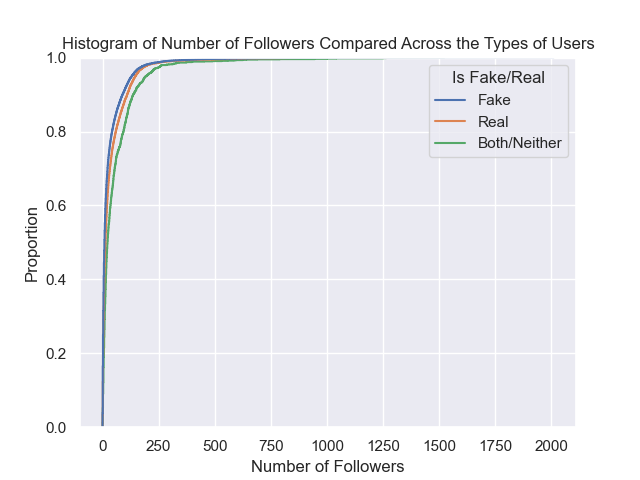
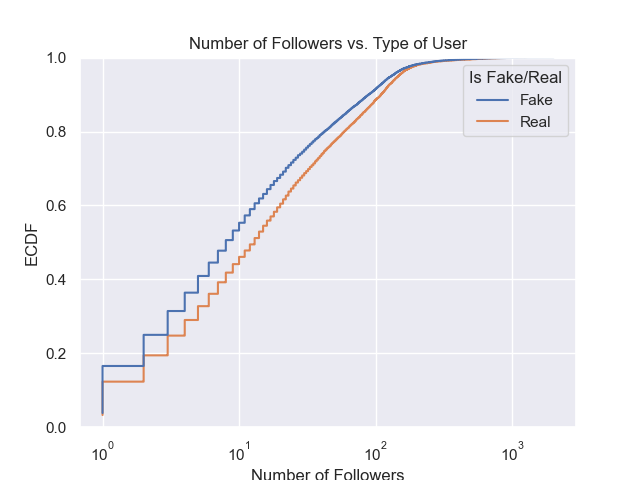
Cleaned up ECDFs

diff --git a/visualization/ecdfs/create_ecdf.py b/visualization/ecdfs/create_ecdf.py
@@ -32,7 +32,7 @@ def create_single_ecdf(points: list[int], data_label: str, title: str, file_name
     plt.savefig(get_file_to_export_path(file_name, "ecdfs"))
 
 
-def create_comparitive_ecdf(points_to_plot: list[int], labels: list[str], column_labels: list[str], to_compare: str, to_plot: str, title: str, file_name: str):
+def create_comparitive_ecdf(points_to_plot: list[int], labels: list[str], column_labels: list[str], to_compare: str, to_plot: str, title: str, file_name: str, log_scale=True):
     """ Provided with a list of datapoints, `points_to_plot`, and labels for each datapoint, 
         `labels`, this function will create an ECDF plot comparing datapoints for each categorical 
         label.
@@ -54,11 +54,21 @@ def create_comparitive_ecdf(points_to_plot: list[int], labels: list[str], column
 
     data = pd.DataFrame(cleaned_data, columns=column_labels)
 
-    sns.ecdfplot(
-        data=data,
-        x=to_plot,
-        hue=to_compare,
-    ).set(title=title)
+    if log_scale:
+        sns.ecdfplot(
+            data=data,
+            x=to_plot,
+            hue=to_compare,
+            log_scale=True,
+            hue_order=["Fake", "Real"],
+        ).set(title=title, ylabel="ECDF")
+    else:
+        sns.ecdfplot(
+            data=data,
+            x=to_plot,
+            hue=to_compare,
+            hue_order=["Fake", "Real"],
+        ).set(title=title, ylabel="ECDF")
 
     plt.savefig(get_file_to_export_path(file_name, "ecdfs"))
 
@@ -68,7 +78,7 @@ def main():
 
     create_comparitive_ecdf([1, 1, 2, 3, 2], ['fake', 'fake', 'fake', 'real', 'real'], [
                             'num_authors', 'is_fake_real'], 'is_fake_real', 'num_authors', "Hello",
-                            'hello.png')
+                            'hello.png', log_scale=True)
 
 
 if __name__ == '__main__':

diff --git a/visualization/ecdfs/p_num_authors_vs_type_of_article/generate_stats/get_num_authors_lists.py b/visualization/ecdfs/p_num_authors_vs_type_of_article/generate_stats/get_num_authors_lists.py
@@ -6,7 +6,7 @@
 """
 
 from visualization.utils import is_article_fake, get_all_article_ids
-from visualization.get_json_dict import database
+from visualization.get_json_dict import DATABASE
 
 
 def get_num_authors_lists():
@@ -17,23 +17,21 @@ def get_num_authors_lists():
                     for all articles, the second list contains the number of authors for fake 
                     articles and the third list contains the number of authors for real articles.
     """
-    all_articles = []
     fake_articles = []
     real_articles = []
 
-    for uid in get_all_article_ids(database):
+    for uid in get_all_article_ids(DATABASE):
         if is_article_fake(uid):
-            article_index = database["articles"]["fake-articles"]["ids"].index(
+            article_index = DATABASE["articles"]["fake-articles"]["ids"].index(
                 uid)
-            authors = len(database["articles"]
+            authors = len(DATABASE["articles"]
                           ["fake-articles"]["authors"][article_index])
             fake_articles.append(authors)
         else:
-            article_index = database["articles"]["real-articles"]["ids"].index(
+            article_index = DATABASE["articles"]["real-articles"]["ids"].index(
                 uid)
-            authors = len(database["articles"]
+            authors = len(DATABASE["articles"]
                           ["real-articles"]["authors"][article_index])
             real_articles.append(authors)
-        all_articles.append(authors)
 
-    return all_articles, fake_articles, real_articles
+    return fake_articles, real_articles

diff --git a/visualization/ecdfs/p_length_vs_type_of_article/generate_stats/get_length_articles_lists.py b/visualization/ecdfs/p_length_vs_type_of_article/generate_stats/get_length_articles_lists.py
@@ -4,11 +4,11 @@
 
 """
 
-from visualization.get_json_dict import database
+from visualization.get_json_dict import DATABASE
 
 
 def get_length_articles_lists():
-    """ Get the lengths of the articles in the database.
+    """ Get the lengths of the articles in the DATABASE.
 
     Returns:
         tuple: A tuple containing three lists. The first list contains the lengths of all articles,
@@ -20,13 +20,13 @@ def get_length_articles_lists():
     lengths_of_fakes = []
     lengths_of_reals = []
 
-    for body, title in zip(database["articles"]["fake-articles"]["bodies"],
-                           database["articles"]["fake-articles"]["titles"]):
+    for body, title in zip(DATABASE["articles"]["fake-articles"]["bodies"],
+                           DATABASE["articles"]["fake-articles"]["titles"]):
         lengths_of_fakes.append(len(body) + len(title))
         lengths_of_articles.append(len(body) + len(title))
-    for body, title in zip(database["articles"]["real-articles"]["bodies"],
-                           database["articles"]["real-articles"]["titles"]):
+    for body, title in zip(DATABASE["articles"]["real-articles"]["bodies"],
+                           DATABASE["articles"]["real-articles"]["titles"]):
         lengths_of_reals.append(len(body) + len(title))
         lengths_of_articles.append(len(body) + len(title))
 
-    return lengths_of_articles, lengths_of_fakes, lengths_of_reals
+    return lengths_of_fakes, lengths_of_reals

diff --git a/visualization/ecdfs/p_shares_vs_type_of_article/generate_stats/get_shares_lists.py b/visualization/ecdfs/p_shares_vs_type_of_article/generate_stats/get_shares_lists.py
@@ -6,11 +6,11 @@
 """
 
 from visualization.utils import is_article_fake, get_all_article_ids
-from visualization.get_json_dict import database
+from visualization.get_json_dict import DATABASE
 
 
 def get_shares_lists():
-    """ Gets the number of shares for each article in the database and returns them in three 
+    """ Gets the number of shares for each article in the DATABASE and returns them in three 
         lists: one with all types of articles, one with only fake articles and one with only 
         real articles.
 
@@ -21,17 +21,15 @@ def get_shares_lists():
                                                     third element is the number of shares for real 
                                                     articles.
     """
-    shares_list = []
     fake_shares_list = []
     real_shares_list = []
 
-    for uid in get_all_article_ids(database):
-        shares = database["articles"]["counts"][uid]["shares"]
-        shares_list.append(shares)
+    for uid in get_all_article_ids(DATABASE):
+        shares = DATABASE["articles"]["counts"][uid]["shares"]
 
         if is_article_fake(uid):
             fake_shares_list.append(shares)
         else:
             real_shares_list.append(shares)
 
-    return shares_list, fake_shares_list, real_shares_list
+    return fake_shares_list, real_shares_list

diff --git a/visualization/ecdfs/p_num_authors_vs_type_of_article/CREATE_P_NUM_AUTHORS_VS_TYPE_OF_ARTICLE.py b/visualization/ecdfs/p_num_authors_vs_type_of_article/CREATE_P_NUM_AUTHORS_VS_TYPE_OF_ARTICLE.py
@@ -15,13 +15,10 @@ def create_p_fake_vs_num_authors_ecdf():
         Creates the ECDF of the probability to have a certain number of authors based on the type
         of article.
     """
-    all_articles, fake_articles, real_articles = get_num_authors_lists()
+    fake_articles, real_articles = get_num_authors_lists()
 
     combined_list = []
     labels = []
-    for num_authors in all_articles:
-        combined_list.append(num_authors)
-        labels.append("Combined")
     for num_authors in fake_articles:
         combined_list.append(num_authors)
         labels.append("Fake")
@@ -32,8 +29,8 @@ def create_p_fake_vs_num_authors_ecdf():
     create_comparitive_ecdf(combined_list, labels, ["Number of Authors", "Type of Article"],
                             "Type of Article",
                             "Number of Authors",
-                            "Proportion of with Different Numbers of Authors Depending on the Type of Article",
-                            "p_num_authors_vs_type_of_article.png")
+                            "Number of Authors vs. Type of Article",
+                            "p_num_authors_vs_type_of_article.png", False)
 
 
 def main():

diff --git a/visualization/ecdfs/p_length_vs_type_of_article/CREATE_P_LENGTH_VS_TYPE_OF_ARTICLE_ECDF.py b/visualization/ecdfs/p_length_vs_type_of_article/CREATE_P_LENGTH_VS_TYPE_OF_ARTICLE_ECDF.py
@@ -15,13 +15,10 @@ def create_p_fake_vs_length_ecdf():
         Creates the ECDF of the probability to have a certain number of authors based on the type
         of article.
     """
-    all_articles, fake_articles, real_articles = get_length_articles_lists()
+    fake_articles, real_articles = get_length_articles_lists()
 
     combined_list = []
     labels = []
-    for num_authors in all_articles:
-        combined_list.append(num_authors)
-        labels.append("Combined")
     for num_authors in fake_articles:
         combined_list.append(num_authors)
         labels.append("Fake")
@@ -33,7 +30,7 @@ def create_p_fake_vs_length_ecdf():
                                                     "Type of Article"],
                             "Type of Article",
                             "Length of Article (in Characters)",
-                            "Proportion of Articles with Different Lengths Depending on Type of Article",
+                            "Length of Article vs. Type of Article",
                             "p_length_vs_type_of_article.png")
 
 

diff --git a/visualization/ecdfs/p_shares_vs_type_of_article/CREATE_P_SHARES_VS_TYPE_OF_ARTICLE.py.py b/visualization/ecdfs/p_shares_vs_type_of_article/CREATE_P_SHARES_VS_TYPE_OF_ARTICLE.py.py
@@ -15,13 +15,10 @@ def create_p_fake_vs_shares_ecdf():
         Creates the ECDF of the probability to receive a certain number of shares based on the type
         of article.
     """
-    shares_list, fake_shares_list, real_shares_list = get_shares_lists()
+    fake_shares_list, real_shares_list = get_shares_lists()
 
     combined_list = []
     labels = []
-    for shares in shares_list:
-        combined_list.append(shares)
-        labels.append("Combined")
     for shares in fake_shares_list:
         combined_list.append(shares)
         labels.append("Fake")
@@ -31,7 +28,7 @@ def create_p_fake_vs_shares_ecdf():
 
     create_comparitive_ecdf(combined_list, labels, ["Shares", "Type of Article"], "Type of Article",
                             "Shares",
-                            "Proportion of an Amount of Shares Depending on the Type of Article",
+                            "Number of Shares vs. Type of Article",
                             "p_shares_vs_type_of_article.png")
 
 

diff --git a/visualization/ecdfs/p_followers_vs_type_of_user/generate_data/get_followers_data.py b/visualization/ecdfs/p_followers_vs_type_of_user/generate_data/get_followers_data.py
@@ -14,13 +14,12 @@ def get_followers_lists():
     labels = []
     for user in user_dist['all-users']:
         num_followers = DATABASE['users']['counts'][user]['followers']['count']
-        followers.append(num_followers)
         if user in user_dist['fake-users']:
             labels.append('Fake')
+            followers.append(num_followers)
         elif user in user_dist['real-users']:
             labels.append('Real')
-        else:
-            labels.append('Both/Neither')
+            followers.append(num_followers)
     return followers, labels
 
 

diff --git a/visualization/ecdfs/p_followers_vs_type_of_user/CREATE_P_FOLLOWERS_VS_TYPE_OF_USER_ECDF.py b/visualization/ecdfs/p_followers_vs_type_of_user/CREATE_P_FOLLOWERS_VS_TYPE_OF_USER_ECDF.py
@@ -17,7 +17,7 @@ def create_followers_ecdf():
     create_comparitive_ecdf(
         followers, labels, ["Number of Followers", "Is Fake/Real"],
         "Is Fake/Real", "Number of Followers",
-        "Histogram of Number of Followers Compared Across the Types of Users",
+        "Number of Followers vs. Type of User",
         "p_followers_vs_type_of_user_ecdf.png")
 
 
